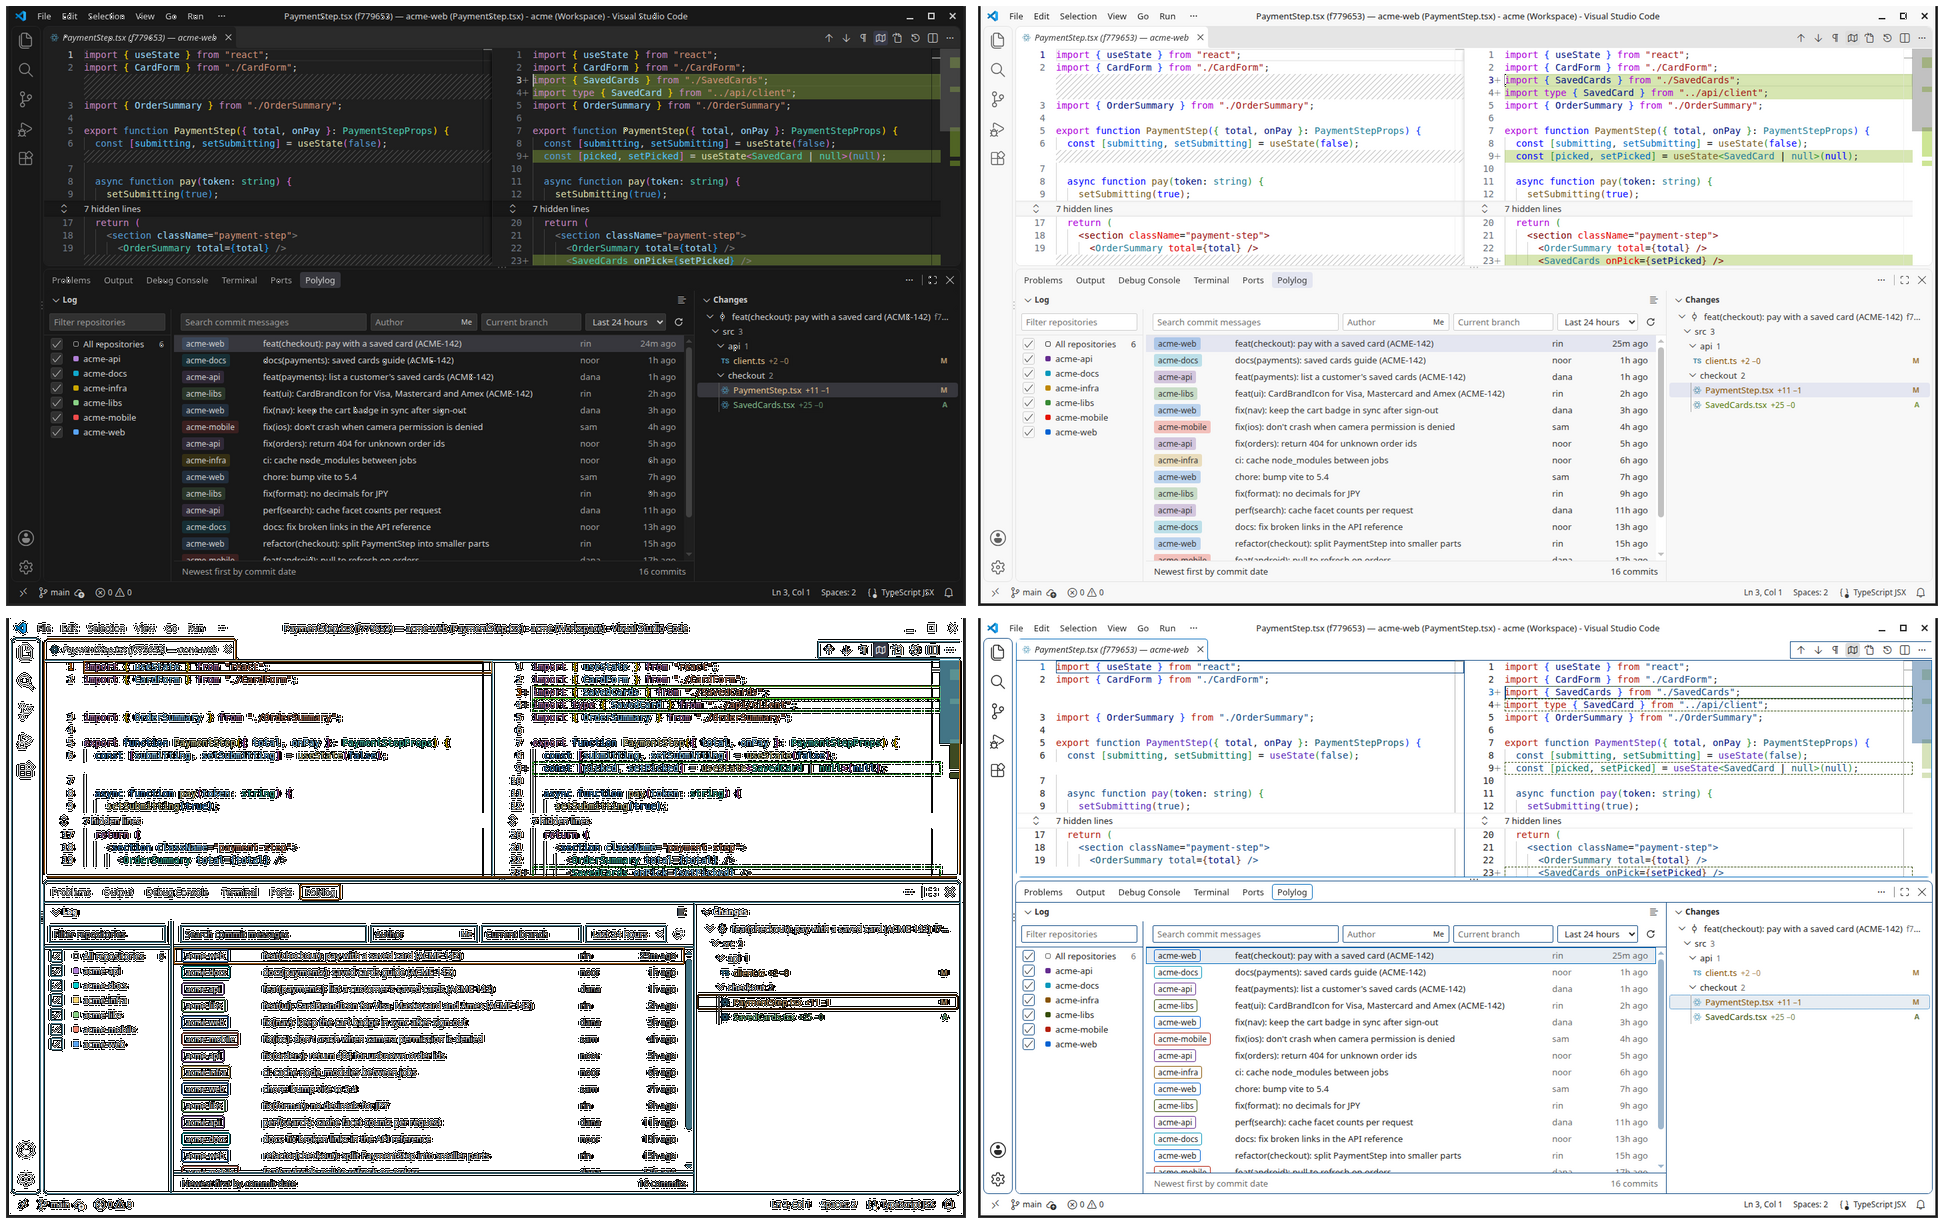
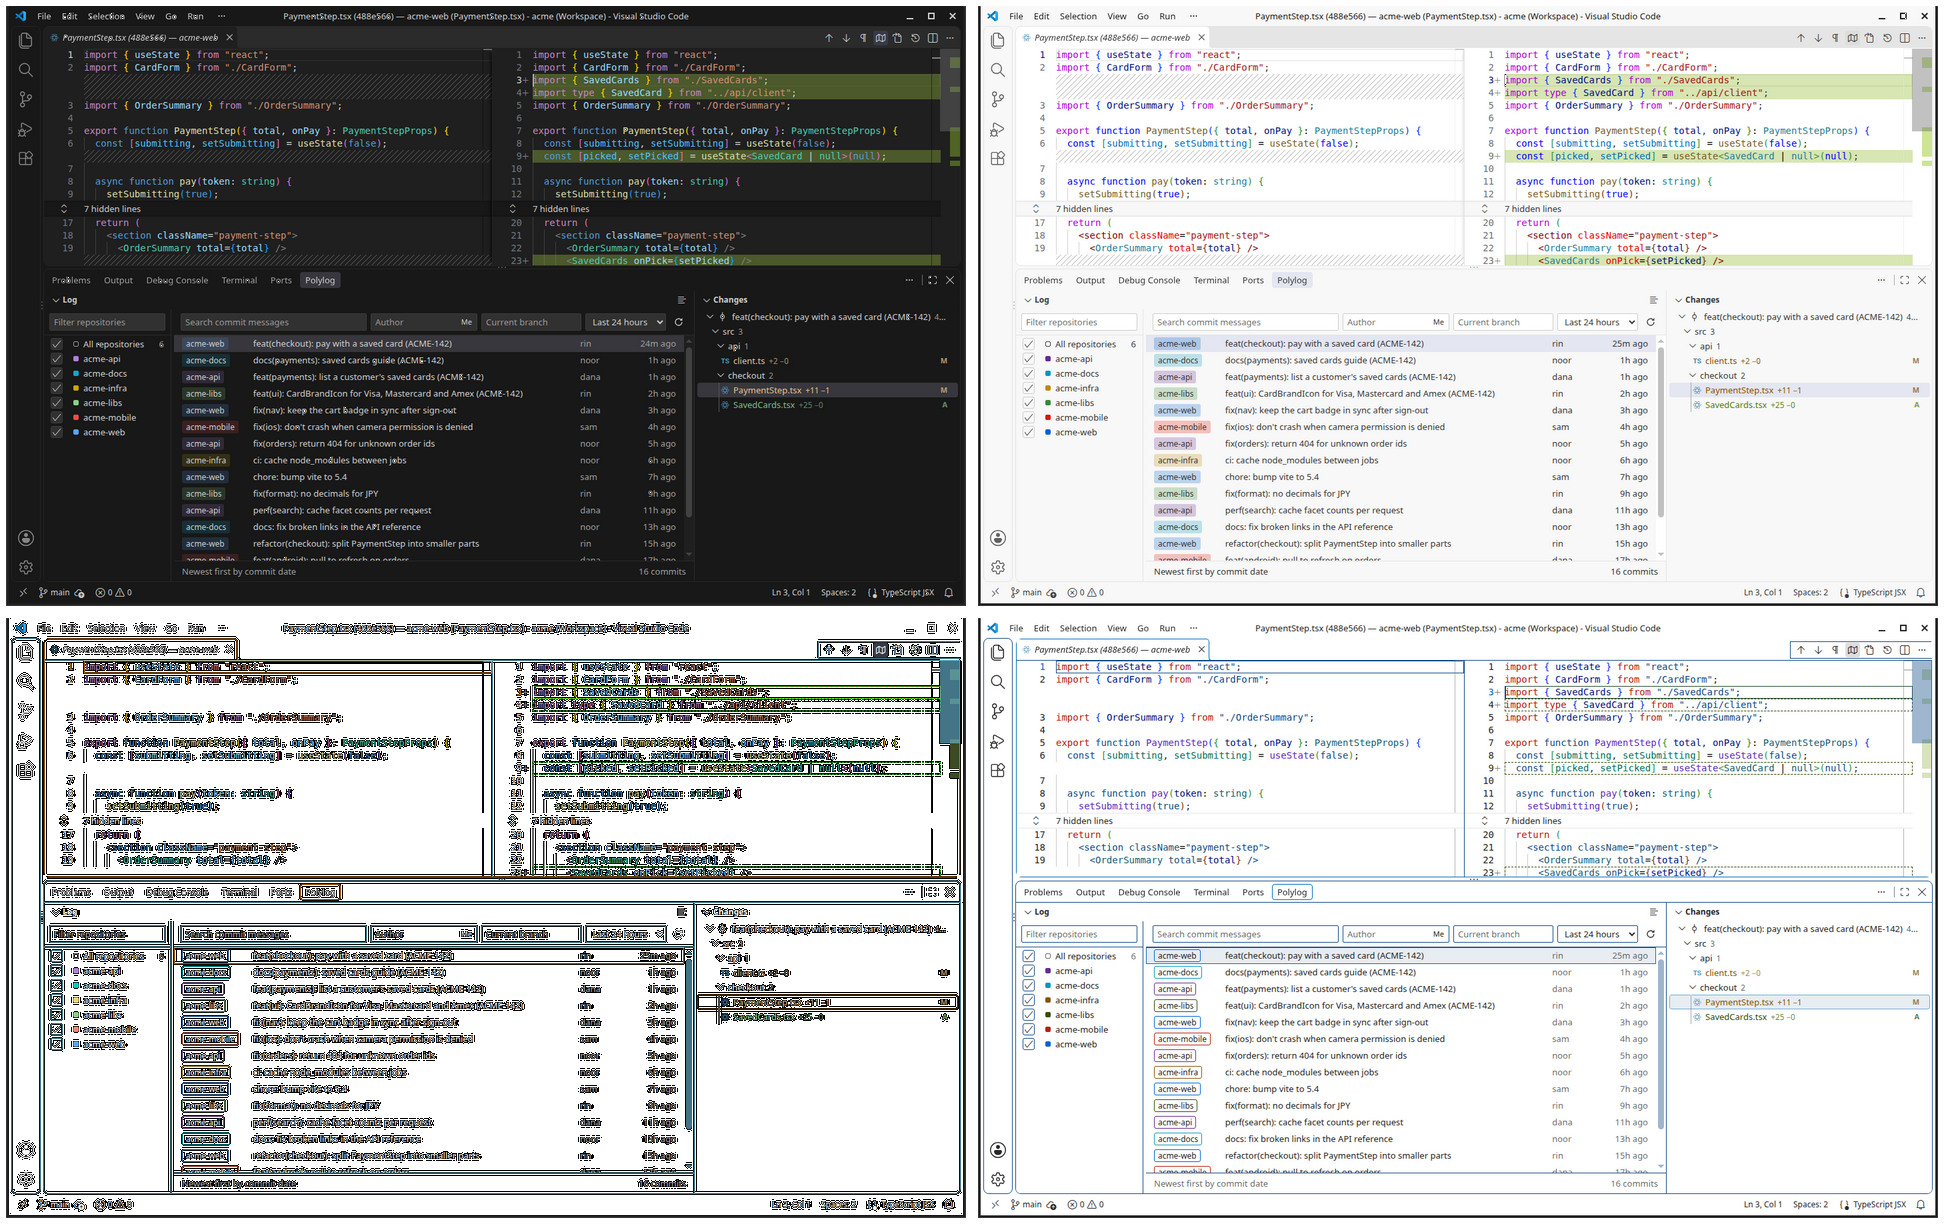
fix: long repo names fit their column and are cut in the middle
Chips were capped at 15ch and cut at the end, so repos sharing a prefix looked
identical, with no tooltip (spec §19). The repo column now fits the longest repo
name (10-28 characters, at most a quarter of the Log). A name that still does
not fit is cut in the middle to exactly its width, measured in the element's own
font, in the Log and in the Repositories pane (not while searching, where the
highlighted letters need the whole name). Both re-fit when a divider is dragged.
The full name is always the chip's tooltip and accessible name.

Adds a longnames harness scenario with neutral names.

diff --git a/src/webview/list.ts b/src/webview/list.ts
@@ -1,5 +1,6 @@
 import type { Commit } from "../types";
 import { clear, h } from "./dom";
+import { fitName, textRoom } from "./measure";
 import { absoluteTime, accentOf, moveSelection, relativeTime, visibleRange } from "./view";
 
 export interface ListProps {
@@ -36,6 +37,8 @@ export class CommitList {
       this.rowHeight = 0;
       this.paint();
     });
+    // Dragging a divider narrows the Log without a window resize: re-fit the repo names.
+    new ResizeObserver(() => this.fitChips()).observe(root);
     root.addEventListener("keydown", (e) => this.onKey(e));
     body.addEventListener("click", (e) => {
       const row = (e.target as Element).closest<HTMLElement>(".row[data-index]");
@@ -92,13 +95,31 @@ export class CommitList {
     this.root.setAttribute("aria-rowcount", String(rows.length));
     const { start, end } = visibleRange(this.root.scrollTop, this.root.clientHeight, rh, rows.length);
     for (let i = start; i < end; i++) this.body.append(this.place(this.renderRow(rows[i], i), i));
+    this.fitChips();
     if (selected >= 0 && selected < rows.length) this.root.setAttribute("aria-activedescendant", `row-${selected}`);
     else this.root.removeAttribute("aria-activedescendant");
+  }
+
+  /**
+   * A repo name longer than its column is cut in the middle, to exactly what fits: repos
+   * that share a prefix differ at the end, and the browser's own ellipsis would hide it.
+   * The full name stays in the chip's tooltip and accessible name.
+   */
+  private fitChips(): void {
+    const first = this.body.querySelector<HTMLElement>(".row:not(.skeleton)");
+    if (!first) return;
+    const column = parseFloat(getComputedStyle(first).gridTemplateColumns.split(" ")[0]);
+    if (!Number.isFinite(column)) return;
+    for (const chip of this.body.querySelectorAll<HTMLElement>(".row .chip")) {
+      const name = chip.getAttribute("aria-label") ?? "";
+      chip.textContent = fitName(chip, name, textRoom(chip, column));
+    }
   }
 
   /** One line, like an IDE log: repo chip | subject | author | date. */
   private renderRow(c: Commit, i: number): HTMLElement {
     const accent = accentOf(this.props.accents, c.repoId);
+    const name = this.props.repoNames.get(c.repoId) ?? c.repoId;
     return h("div", {
       class: "row",
       role: "row",
@@ -107,7 +128,7 @@ export class CommitList {
       "aria-selected": String(i === this.props.selected),
       "data-index": String(i),
     }, [
-      h("span", { class: `chip accent-${accent}`, role: "gridcell", title: c.ref ? `${this.props.repoNames.get(c.repoId) ?? c.repoId} — ${c.ref}` : undefined }, [this.props.repoNames.get(c.repoId) ?? c.repoId]),
+      h("span", { class: `chip accent-${accent}`, role: "gridcell", title: c.ref ? `${name} — ${c.ref}` : name, "aria-label": name }, [name]),
       h("span", { class: "subject", role: "gridcell", title: c.subject }, [
         c.subject,
         // File history: the file had another name in this commit.

diff --git a/src/webview/view.test.ts b/src/webview/view.test.ts
@@ -1,7 +1,7 @@
 import * as assert from "assert";
 import { DEFAULT_FILTER, type FilterState } from "../filterModel";
 import {
-  absoluteTime, accentOf, ACCENT_COUNT, assignAccents, branchUseLabel, countLabel, dateLabel, emptyState, moveSelection,
+  absoluteTime, accentOf, ACCENT_COUNT, assignAccents, fitMiddle, middleTruncate, repoColumnChars, branchUseLabel, countLabel, dateLabel, emptyState, moveSelection,
   relativeTime, repoButtonLabel, reselect, splitPath, visibleRange,
 } from "./view";
 
@@ -128,4 +128,29 @@ const repos = ["acme-web", "acme-api", "acme-libs"].map((n) => ({ id: `/ws/${n}`
   assert.strictEqual(branchUseLabel({ branch: "prod", found: 0, fallback: 2 }), "no repo has prod · current branch in 2");
   assert.strictEqual(branchUseLabel(undefined), "");
   console.log("ok - the footer says which repos use the branch and which fell back");
+}
+{
+  assert.strictEqual(middleTruncate("acme-web", 12), "acme-web", "short names are untouched");
+  assert.strictEqual(middleTruncate("acme-mobile-shipper-ops", 16), "acme-mob…per-ops", "long names keep their start and their end");
+  assert.strictEqual(middleTruncate("acme-mobile-shipper-ops", 16).length, 16);
+  assert.notStrictEqual(middleTruncate("acme-mobile-shipper-ops", 16), middleTruncate("acme-mobile-shipper-app", 16), "names that share a start stay apart");
+  assert.strictEqual(middleTruncate("abcdef", 1), "…");
+  console.log("ok - long repo names are cut in the middle, so the part that tells them apart stays");
+}
+{
+  assert.strictEqual(repoColumnChars(["acme-web", "acme-api"]), 10, "never narrower than 10 characters");
+  assert.strictEqual(repoColumnChars(["acme-web", "acme-mobile-shipper"]), 19, "fits the longest name");
+  assert.strictEqual(repoColumnChars(["a".repeat(60)]), 28, "and stops at 28");
+  assert.strictEqual(repoColumnChars([]), 10);
+  console.log("ok - the repo column fits the workspace's longest repo name, within limits");
+}
+{
+  // A fake measure: 7px per character.
+  const within = (px: number) => (t: string) => t.length * 7 <= px;
+  assert.strictEqual(fitMiddle("acme-mobile-shipper-ops", within(1000)), "acme-mobile-shipper-ops", "a name that fits is untouched");
+  const cut = fitMiddle("acme-mobile-shipper-ops", within(112));
+  assert.strictEqual(cut, "acme-mob…per-ops", "otherwise the longest middle cut that fits (16 × 7 = 112px)");
+  assert.notStrictEqual(cut, fitMiddle("acme-mobile-shipper-app", within(112)), "so similar names stay apart at any width");
+  assert.strictEqual(fitMiddle("acme-web", within(3)), "…", "no room at all still renders");
+  console.log("ok - a repo name is cut in the middle to exactly what fits the space it has");
 }

diff --git a/src/webview/repoPane.ts b/src/webview/repoPane.ts
@@ -1,5 +1,6 @@
 import type { Repo } from "../types";
 import { byId, clear, h } from "./dom";
+import { fitName } from "./measure";
 import { fuzzyMatch, isChecked, pickOnly, toggleRepo, visibleRepos } from "./repoPaneModel";
 import { accentOf, assignAccents } from "./view";
 
@@ -24,6 +25,8 @@ export class RepoPane {
   private active = 0;
 
   constructor(private readonly onChange: (repoIds: string[] | null) => void) {
+    // Dragging the divider resizes the pane without a window resize.
+    new ResizeObserver(() => this.fitNames()).observe(this.list);
     this.filterInput.addEventListener("input", () => {
       this.active = 0;
       this.render();
@@ -83,6 +86,20 @@ export class RepoPane {
     }
   }
 
+  /**
+   * Names wider than the pane are cut in the middle to what fits, so repos that share a
+   * prefix stay apart. Not while searching: the highlighted letters need the whole name.
+   */
+  private fitNames(): void {
+    if (this.filterInput.value.trim()) return;
+    for (const span of this.list.querySelectorAll<HTMLElement>(".repo-name")) {
+      const name = span.dataset.name;
+      if (!name) continue;
+      span.textContent = name;
+      if (span.scrollWidth > span.clientWidth) span.textContent = fitName(span, name, span.clientWidth);
+    }
+  }
+
   /** The name with the letters the fuzzy search matched wrapped for highlighting. */
   private highlighted(name: string): (string | HTMLElement)[] {
     const m = this.filterInput.value.trim() ? fuzzyMatch(this.filterInput.value, name) : null;
@@ -133,11 +150,12 @@ export class RepoPane {
       }, [
         box,
         accent === null ? h("span", { class: "repo-dot all", "aria-hidden": "true" }) : h("span", { class: `repo-dot accent-${accent}`, "aria-hidden": "true" }),
-        h("span", { class: "repo-name" }, row.id === null ? [row.name] : this.highlighted(row.name)),
+        h("span", { class: "repo-name", "data-name": row.id === null ? undefined : row.name }, row.id === null ? [row.name] : this.highlighted(row.name)),
         row.id === null ? h("span", { class: "repo-count" }, [count]) : null,
       ]));
     });
     if (this.rows.length === 1 && this.repos.length > 0) this.list.append(h("p", { class: "hint" }, ["No repositories match."]));
+    this.fitNames();
     this.list.setAttribute("aria-activedescendant", `repo-row-${this.active}`);
     this.list.querySelector(".repo-row.active")?.scrollIntoView({ block: "nearest" });
   }

diff --git a/src/webview/view.ts b/src/webview/view.ts
@@ -89,6 +89,40 @@ export function accentOf(accents: ReadonlyMap<string, number>, repoId: string): 
   return accents.get(repoId) ?? 0;
 }
 
+/** The Log's repo column, in characters: fits the longest repo name, within 10–28. */
+export function repoColumnChars(names: readonly string[]): number {
+  const longest = names.reduce((n, name) => Math.max(n, name.length), 0);
+  return Math.min(28, Math.max(10, longest));
+}
+
+/**
+ * A repo name cut to `max` characters in the middle: repos that share a prefix
+ * (acme-mobile-…) usually differ at the end, so both ends stay visible.
+ */
+export function middleTruncate(name: string, max: number): string {
+  if (name.length <= max) return name;
+  if (max <= 1) return "…";
+  const keep = max - 1;
+  const head = Math.ceil(keep / 2);
+  return `${name.slice(0, head)}…${name.slice(name.length - (keep - head))}`;
+}
+
+/**
+ * The longest middle cut of `name` that `fits` accepts (the caller measures real text
+ * width). Binary search: fits is monotonic in length.
+ */
+export function fitMiddle(name: string, fits: (text: string) => boolean): string {
+  if (fits(name)) return name;
+  let lo = 1;
+  let hi = name.length - 1;
+  while (lo < hi) {
+    const mid = Math.ceil((lo + hi) / 2);
+    if (fits(middleTruncate(name, mid))) lo = mid;
+    else hi = mid - 1;
+  }
+  return middleTruncate(name, lo);
+}
+
 const repoNoun = (n: number) => (n === 1 ? "repository" : "repositories");
 
 export function repoButtonLabel(repoIds: readonly string[] | null, repos: readonly { id: string; name: string }[]): string {

diff --git a/src/webview/styles.css b/src/webview/styles.css
@@ -143,7 +143,9 @@ button.link:hover { background: transparent; color: var(--vscode-textLink-active
 /* One line per commit, like an IDE log: repo chip | subject | author | date. */
 .row {
   position: absolute; top: 0; left: 0; right: 0; height: var(--row-height);
-  display: grid; grid-template-columns: minmax(72px, 15ch) minmax(0, 1fr) minmax(48px, 10ch) 8ch;
+  /* The repo column fits the longest repo name (main.ts --repo-col), but never takes more
+     than a quarter of the Log. */
+  display: grid; grid-template-columns: minmax(72px, min(var(--repo-col, 15ch), 25%)) minmax(0, 1fr) minmax(48px, 10ch) 8ch;
   align-items: center; column-gap: 10px; padding: 0 var(--pad-x); cursor: default;
 }
 .row:hover { background: var(--vscode-list-hoverBackground); }
@@ -200,6 +202,6 @@ body.vscode-high-contrast .chip { background: transparent; outline: 1px solid va
 
 /* ── Narrow editor groups: stack list above detail ──────────────────────── */
 @media (max-width: 720px) {
-  .row { grid-template-columns: minmax(80px, 14ch) minmax(0, 1fr) 8ch; }
+  .row { grid-template-columns: minmax(80px, min(var(--repo-col, 14ch), 30%)) minmax(0, 1fr) 8ch; }
   .row .author { display: none; }
 }

diff --git a/src/webview/measure.ts b/src/webview/measure.ts
@@ -1,0 +1,26 @@
+import { fitMiddle } from "./view";
+
+// Real text width, in the element's own font: a canvas measures without touching layout.
+const ctx = document.createElement("canvas").getContext("2d");
+const cache = new Map<string, string>();
+
+/** `name`, cut in the middle to fit `maxPx` in `el`'s font (el must be in the document). */
+export function fitName(el: HTMLElement, name: string, maxPx: number): string {
+  if (!ctx || maxPx <= 0) return name;
+  const font = getComputedStyle(el).font;
+  const key = `${font}|${Math.floor(maxPx)}|${name}`;
+  let fitted = cache.get(key);
+  if (fitted === undefined) {
+    ctx.font = font;
+    fitted = fitMiddle(name, (t) => ctx.measureText(t).width <= maxPx);
+    if (cache.size > 2000) cache.clear();
+    cache.set(key, fitted);
+  }
+  return fitted;
+}
+
+/** The space an element's text has: its box minus horizontal padding. */
+export function textRoom(el: HTMLElement, box = el.getBoundingClientRect().width): number {
+  const s = getComputedStyle(el);
+  return box - parseFloat(s.paddingLeft) - parseFloat(s.paddingRight);
+}

diff --git a/src/webview/main.ts b/src/webview/main.ts
@@ -12,7 +12,7 @@ import { NoticeBar } from "./notices";
 import { RepoPane } from "./repoPane";
 import { attachSplitter } from "./splitter";
 import { PaneWidth } from "./repoPaneModel";
-import { assignAccents, branchUseLabel, countLabel, emptyState, reselect, type EmptyAction } from "./view";
+import { assignAccents, branchUseLabel, repoColumnChars, countLabel, emptyState, reselect, type EmptyAction } from "./view";
 
 const vscode = acquireVsCodeApi();
 const post = (m: WebviewMessage): void => vscode.postMessage(m);
@@ -83,6 +83,8 @@ window.addEventListener("message", (e: MessageEvent<HostMessage>) => {
     case "init":
       state.repos = m.repos;
       accents = assignAccents(m.repos);
+      // +2: the chip's own padding, so a name that fits is never cut.
+      appEl.style.setProperty("--repo-col", `${repoColumnChars(m.repos.map((r) => r.name)) + 2}ch`);
       state.filter = m.filter;
       filters.setMe(m.hasMe);
       filters.setBranches(m.branches);

diff --git a/dev/harness/mock.ts b/dev/harness/mock.ts
@@ -23,9 +23,11 @@ const BASE = ["acme-web", "acme-api", "acme-libs"];
 
 export function mockRepos(scenario: string): Repo[] {
   if (scenario === "norepos") return [];
+  // "longnames": long repo names that share a prefix, as big workspaces tend to have.
+  const LONG = ["acme-web", "acme-mobile-shipper-ops", "acme-mobile-shipper-app", "acme-payments-gateway-worker", "acme-api"];
   const names = scenario === "many"
     ? [...BASE, ...Array.from({ length: 65 }, (_, i) => `acme-svc-${String(i + 1).padStart(2, "0")}`)]
-    : BASE;
+    : scenario === "longnames" ? LONG : BASE;
   return names.map((name) => ({ id: `/work/${name}`, root: `/work/${name}`, name }));
 }
 

diff --git a/docs/superpowers/specs/2026-09-23-polylog-panel-design.md b/docs/superpowers/specs/2026-09-23-polylog-panel-design.md
@@ -329,3 +329,17 @@ be learned.
   white panel. The text stays in the theme foreground.
 - Blue and cyan remain the closest pair. With six or more repos both are in use; the
   printed name disambiguates.
+
+## 19. Amendment: long repository names (2026-09-24, maintainer request)
+
+Chips were capped at 15ch and cut at the end. Repos that share a prefix
+(`acme-mobile-shipper-ops` / `-app`) then looked identical, and there was no tooltip.
+- The repo column fits the longest repo name (`repoColumnChars`: 10–28 characters). It
+  never takes more than 25% of the Log (30% when narrow).
+- A name that still does not fit is cut in the middle, to exactly the width it has
+  (`fitMiddle` plus a canvas measure in the element's font). The same applies in the
+  Repositories pane, except while searching, where the highlighted letters need the whole
+  name.
+- Both re-fit when a divider is dragged (ResizeObserver).
+- The chip's tooltip and accessible name are always the full name, plus the branch in
+  branch mode.

diff --git a/CHANGELOG.md b/CHANGELOG.md
@@ -15,7 +15,9 @@ The first release.
 
 - **One git log across every repository in the workspace.** Commits from all of them in
   one list, merged newest first by commit date, each with a chip showing the repository it
-  belongs to. Polylog opens as a tab in the bottom panel, next to Terminal.
+  belongs to. The chip column fits your longest repository name. A name too long for the
+  space is shortened in the middle, so repositories that share a prefix stay apart, and the
+  full name is always in the tooltip. Polylog opens as a tab in the bottom panel, next to Terminal.
 - **Search and filters that apply to every repository at once:** commit message
   (literal, case-insensitive), author with a **Me** toggle inside the box, branch, and date range (last
   24 hours by default). Every filter becomes a `git log` flag, so git does the searching;
